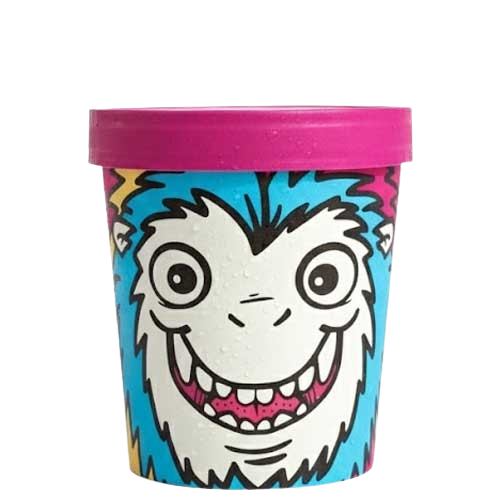
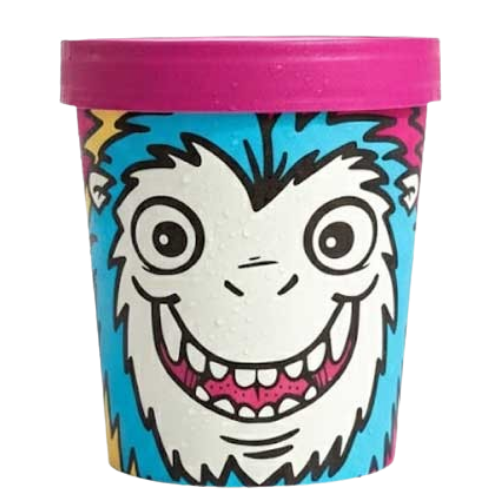
Cambios leves en imagenes del index y nuevo correo - nuevo slogan

diff --git a/index.html b/index.html
@@ -79,13 +79,13 @@
 <!-- Helados lado izquierdo -->
     <div class="hero-helados-izquierda">
     <div class="helado-contenedor h-izq-1">
-        <img src="img/helados/fantoche-fresa.png" alt="Fantoche Fresa" class="helado-flotante">
+        <img src="img/helados/fantofresa.png" alt="Fantoche Fresa" class="helado-flotante">
     </div>
     <div class="helado-contenedor h-izq-2">
-        <img src="img/helados/chocolate.png" alt="Chocolate" class="helado-flotante">
+        <img src="img/helados/chocolate2.png" alt="Chocolate" class="helado-flotante">
     </div>
     <div class="helado-contenedor h-izq-3">
-        <img src="img/helados/pistache.png" alt="Pistache" class="helado-flotante">
+        <img src="img/helados/pistacho.png" alt="Pistache" class="helado-flotante">
     </div>
 </div>
 
@@ -93,14 +93,14 @@
     <div class="hero-contenido">
         <p class="hero-subtitulo">Bienvenido a</p>
         <h1 class="hero-titulo">Helados<br><span>La Argentina</span></h1>
-        <p class="hero-slogan">"El sabor que te conquista"</p>
+        <p class="hero-slogan">"Demasiado Buenos"</p>
     </div>
 
     <!-- Helados lado derecho -->
     <div class="hero-helados-derecha">
 
         <div class="helado-contenedor h-der-1">
-            <img src="img/helados/manteca2.png" alt="Manteca" class="helado-flotante">
+            <img src="img/helados/mantecado.png" alt="Manteca" class="helado-flotante">
         </div>
 
         <div class="helado-contenedor h-der-2">
@@ -279,7 +279,7 @@
         <!-- Columna 1: Logo y slogan -->
         <div class="footer-col">
             <img src="img/logos/logo.png" alt="Helados La Argentina" class="footer-logo">
-            <p class="footer-slogan">"El sabor que te conquista"</p>
+            <p class="footer-slogan">"Demasiados Buenos"</p>
             <div class="footer-redes">
                 <a href="#" class="footer-red proximamente" data-red="Instagram">
                     <img src="img/logos/instagram.png" alt="Instagram">
@@ -310,7 +310,7 @@
             <ul class="footer-contacto">
                 <li>📍 Calle 61 entre calles 114A y 114, Galpon Numero 28, Zona Industrial Los Robles</li>
                 <li>📞 [phone redacted]</li>
-                <li>📧 [email redacted]</li>
+                <li>📧 [email redacted]</li>
             </ul>
         </div>
 

diff --git a/detalle-helado.html b/detalle-helado.html
@@ -101,7 +101,7 @@
         <div class="footer-contenido">
             <div class="footer-col">
                 <img src="img/logos/logo.png" alt="Helados La Argentina" class="footer-logo">
-                <p class="footer-slogan">"El sabor que te conquista"</p>
+                <p class="footer-slogan">"Demasiado Buenos"</p>
                 <div class="footer-redes">
                     <a href="#" class="footer-red proximamente" data-red="Instagram">
                         <img src="img/logos/instagram.png" alt="Instagram">
@@ -128,7 +128,7 @@
                 <ul class="footer-contacto">
                     <li>📍 Calle 61 entre calles 114A y 114, Galpon Numero 28, Zona Industrial Los Robles</li>
                     <li>📞 [phone redacted]</li>
-                    <li>📧 [email redacted]</li>
+                    <li>📧 [email redacted]</li>
                 </ul>
             </div>
         </div>

diff --git a/productos.html b/productos.html
@@ -230,7 +230,7 @@
         <div class="footer-contenido">
             <div class="footer-col">
                 <img src="img/logos/logo.png" alt="Heladerías La Argentina" class="footer-logo">
-                <p class="footer-slogan">"El sabor que te conquista"</p>
+                <p class="footer-slogan">"Demasiado Buenos"</p>
                 <div class="footer-redes">
                     <a href="#" class="footer-red proximamente" data-red="Instagram">
                         <img src="img/logos/instagram.png" alt="Instagram">
@@ -257,7 +257,7 @@
                 <ul class="footer-contacto">
                     <li>📍 Calle 61 entre calles 114A y 114, Galpon Numero 28, Zona Industrial Los Robles</li>
                     <li>📞 [phone redacted]</li>
-                    <li>📧 [email redacted]</li>
+                    <li>📧 [email redacted]</li>
                 </ul>
             </div>
         </div>

diff --git a/quienes-somos.html b/quienes-somos.html
@@ -224,7 +224,7 @@
         <div class="footer-contenido">
             <div class="footer-col">
                 <img src="img/logos/logo.png" alt="Helados La Argentina" class="footer-logo">
-                <p class="footer-slogan">"El sabor que te conquista"</p>
+                <p class="footer-slogan">"Demasiado Buenos"</p>
                 <div class="footer-redes">
                     <a href="#" class="footer-red proximamente" data-red="Instagram">
                         <img src="img/logos/instagram.png" alt="Instagram">
@@ -251,7 +251,7 @@
                 <ul class="footer-contacto">
                     <li>📍 Calle 61 entre calles 114A y 114, Galpon Numero 28, Zona Industrial Los Robles</li>
                     <li>📞 [phone redacted]</li>
-                    <li>📧 [email redacted]</li>
+                    <li>📧 [email redacted]</li>
                 </ul>
             </div>
         </div>